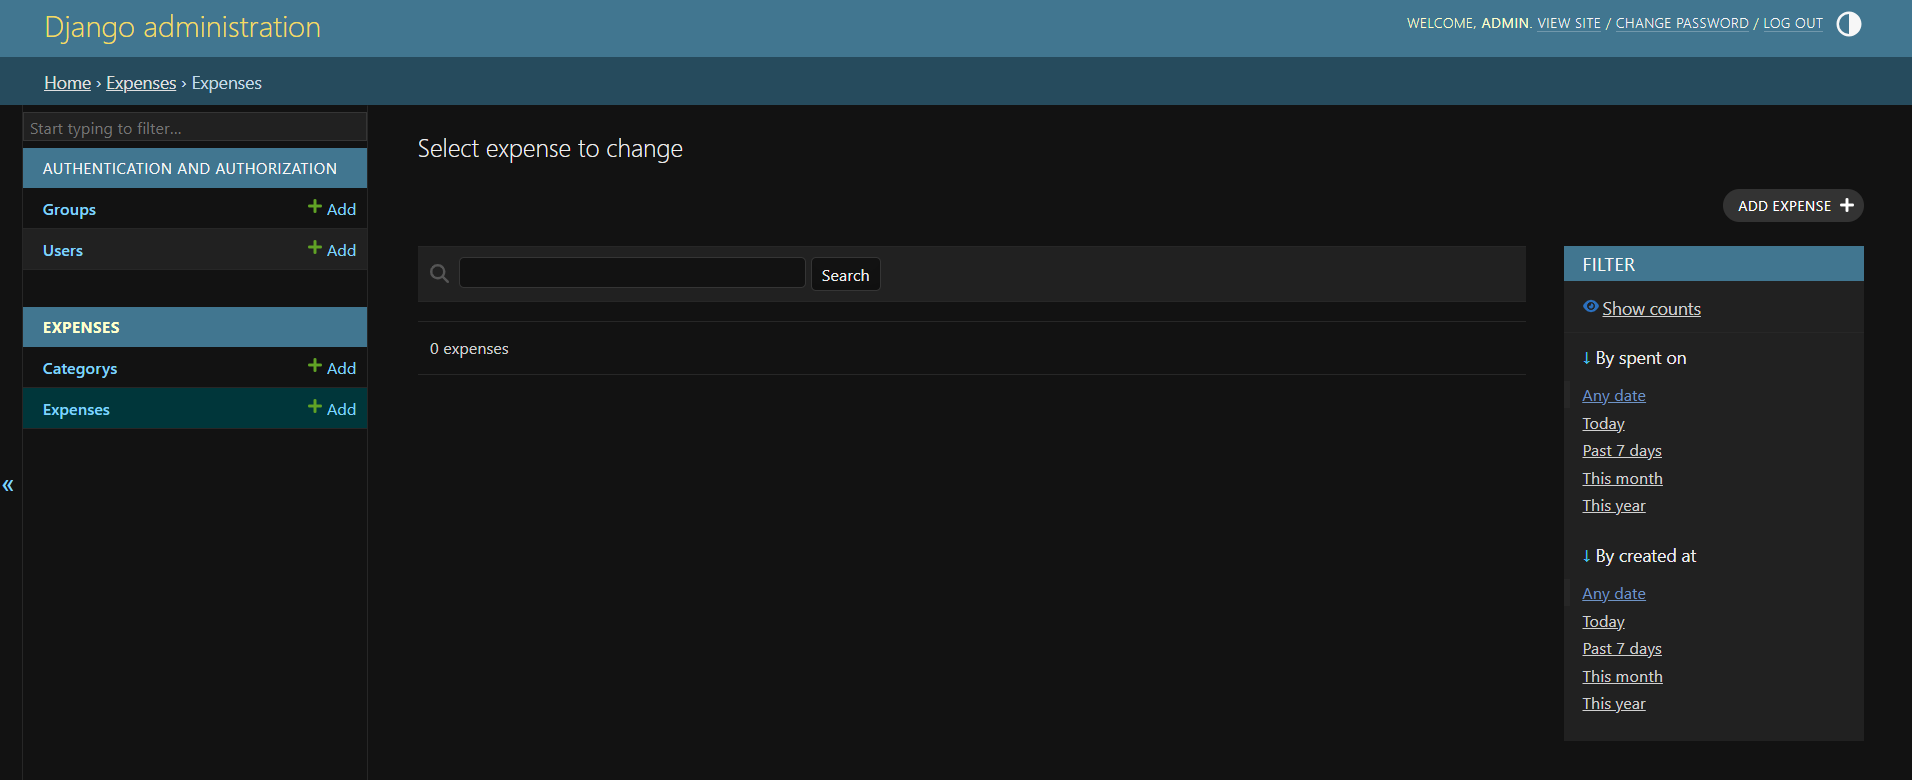
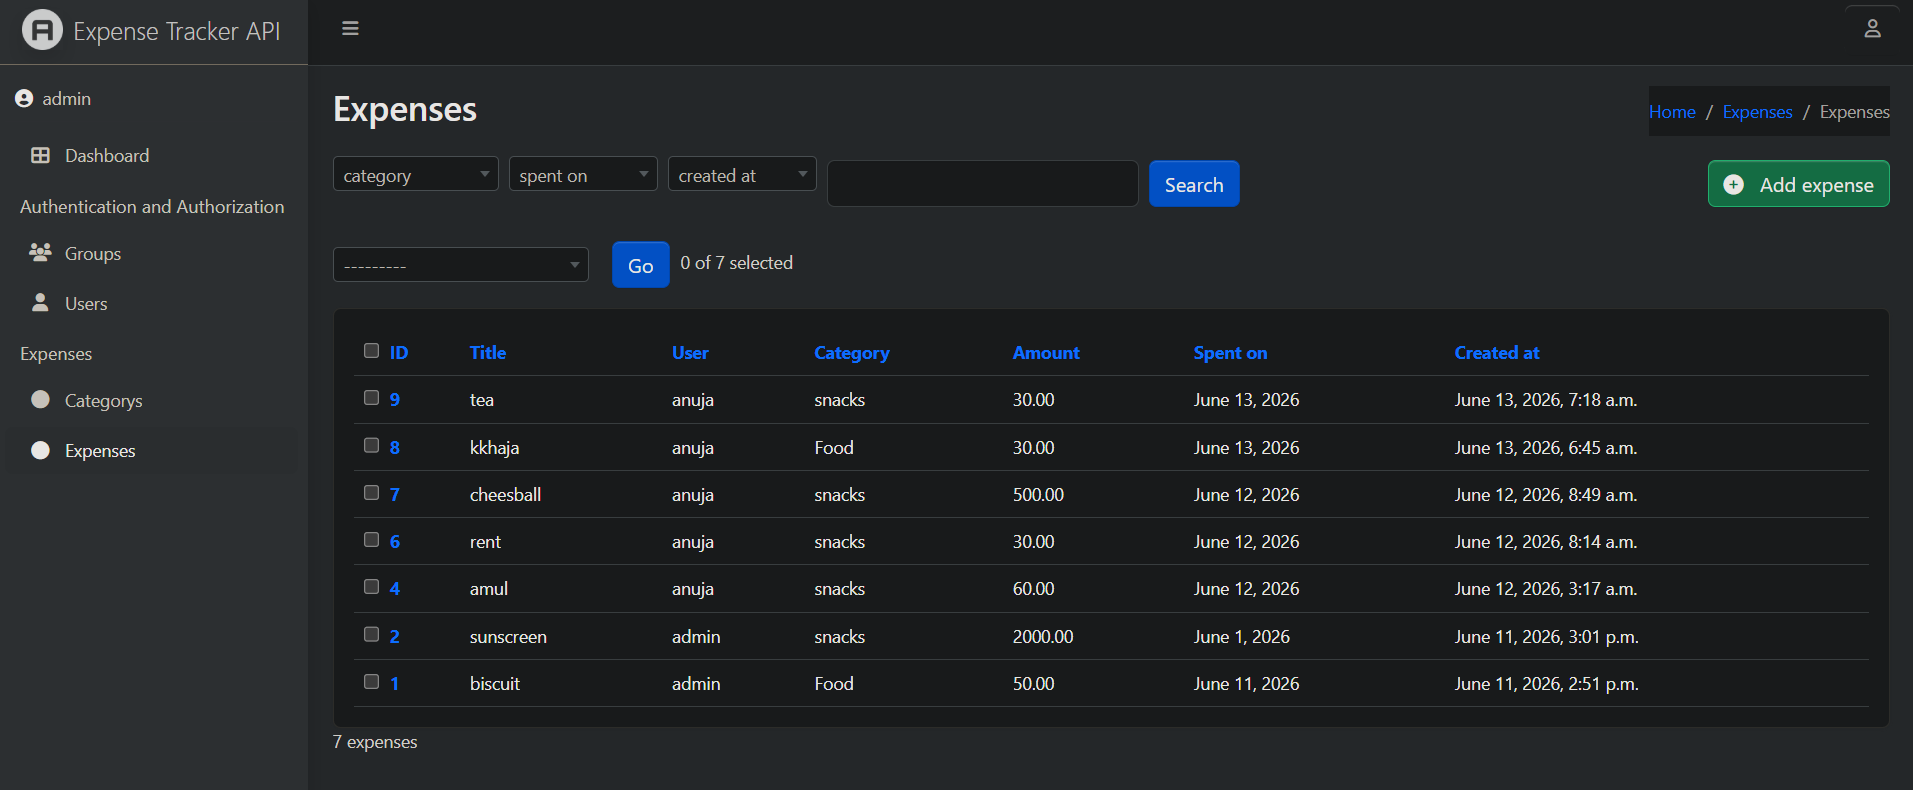
intregate jazzmin,update readme

diff --git a/README.md b/README.md
@@ -234,6 +234,17 @@ E --> F
 F --> D
 F --> E
 ```
+# 🎛️ Django Admin Panel
+
+The project uses Django's built-in Admin Panel with **Jazzmin** to provide a modern, responsive, and user-friendly administrative interface.
+
+## Jazzmin Admin Dashboard
+
+The screenshot below shows the customized Django Admin Panel using Jazzmin.
+
+<p align="center">
+    <img src="screenshots/jazzmin-dashboard.png" alt="Jazzmin Admin Dashboard" width="900">
+</p>
 
 ---
 